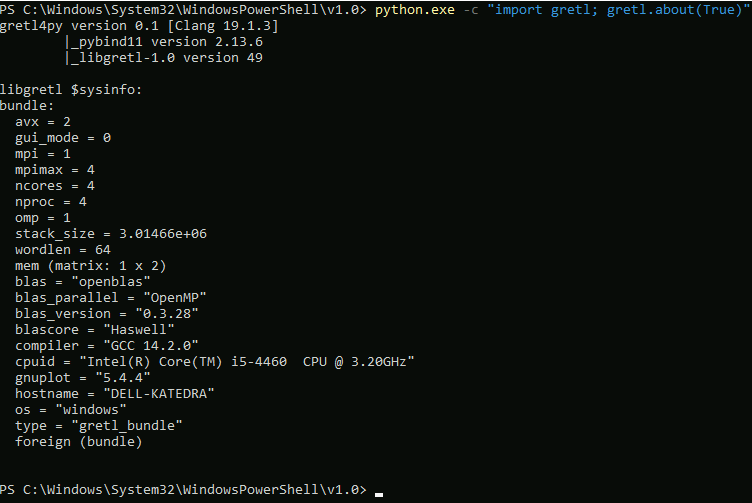
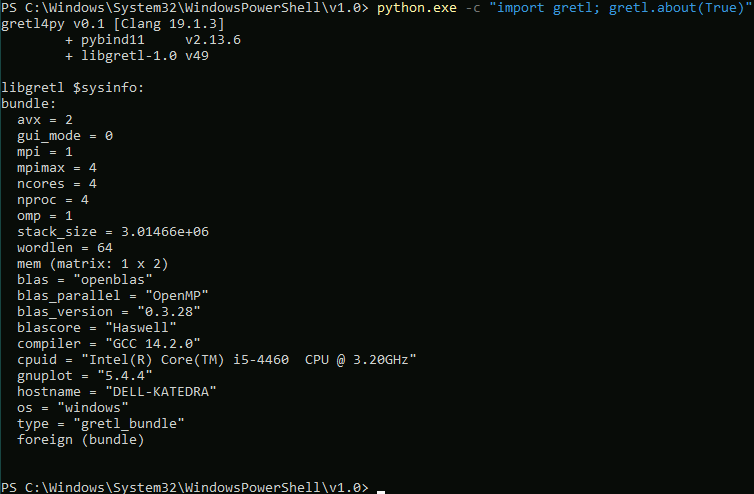
copyright statement added

Changed region(s): [[0.0, 0.0, 1.0, 0.9109], [0.0, 0.9413, 0.5199, 1.0]]

diff --git a/gretl/__init__.py b/gretl/__init__.py
@@ -1,4 +1,25 @@
-"""module import all necessary files"""
+"""
+ *
+ *  gretl -- Gnu Regression, Econometrics and Time-series Library
+ *  Copyright (C) 2001 Allin Cottrell and Riccardo "Jack" Lucchetti
+ *
+ *  This program is free software: you can redistribute it and/or modify
+ *  it under the terms of the GNU General Public License as published by
+ *  the Free Software Foundation, either version 3 of the License, or
+ *  (at your option) any later version.
+ *
+ *  This program is distributed in the hope that it will be useful,
+ *  but WITHOUT ANY WARRANTY; without even the implied warranty of
+ *  MERCHANTABILITY or FITNESS FOR A PARTICULAR PURPOSE.  See the
+ *  GNU General Public License for more details.
+ *
+ *  You should have received a copy of the GNU General Public License
+ *  along with this program.  If not, see <http://www.gnu.org/licenses/>.
+ *
+ """
+
+"""This module import all necessary files
+and sets some required environmental variables."""
 
 import sysconfig
 import site as _site

diff --git a/src/gretl_calls.cpp b/src/gretl_calls.cpp
@@ -1,3 +1,22 @@
+/*
+ *  gretl -- Gnu Regression, Econometrics and Time-series Library
+ *  Copyright (C) 2001 Allin Cottrell and Riccardo "Jack" Lucchetti
+ *
+ *  This program is free software: you can redistribute it and/or modify
+ *  it under the terms of the GNU General Public License as published by
+ *  the Free Software Foundation, either version 3 of the License, or
+ *  (at your option) any later version.
+ *
+ *  This program is distributed in the hope that it will be useful,
+ *  but WITHOUT ANY WARRANTY; without even the implied warranty of
+ *  MERCHANTABILITY or FITNESS FOR A PARTICULAR PURPOSE.  See the
+ *  GNU General Public License for more details.
+ *
+ *  You should have received a copy of the GNU General Public License
+ *  along with this program.  If not, see <http://www.gnu.org/licenses/>.
+ *
+ */
+
 #include "gretl4py.h" /* MUST be at the first position!!! */
 #include "gretl4py_data.h"
 #include <gretl/gretl_drivers.h>

diff --git a/src/gretl4py_data.cpp b/src/gretl4py_data.cpp
@@ -1,3 +1,22 @@
+/*
+ *  gretl -- Gnu Regression, Econometrics and Time-series Library
+ *  Copyright (C) 2001 Allin Cottrell and Riccardo "Jack" Lucchetti
+ *
+ *  This program is free software: you can redistribute it and/or modify
+ *  it under the terms of the GNU General Public License as published by
+ *  the Free Software Foundation, either version 3 of the License, or
+ *  (at your option) any later version.
+ *
+ *  This program is distributed in the hope that it will be useful,
+ *  but WITHOUT ANY WARRANTY; without even the implied warranty of
+ *  MERCHANTABILITY or FITNESS FOR A PARTICULAR PURPOSE.  See the
+ *  GNU General Public License for more details.
+ *
+ *  You should have received a copy of the GNU General Public License
+ *  along with this program.  If not, see <http://www.gnu.org/licenses/>.
+ *
+ */
+
 #include <pybind11/pybind11.h>
 #include <pybind11/numpy.h>
 #include "gretl4py_data.h"

diff --git a/src/gretl4py.h b/src/gretl4py.h
@@ -1,3 +1,22 @@
+/*
+ *  gretl -- Gnu Regression, Econometrics and Time-series Library
+ *  Copyright (C) 2001 Allin Cottrell and Riccardo "Jack" Lucchetti
+ *
+ *  This program is free software: you can redistribute it and/or modify
+ *  it under the terms of the GNU General Public License as published by
+ *  the Free Software Foundation, either version 3 of the License, or
+ *  (at your option) any later version.
+ *
+ *  This program is distributed in the hope that it will be useful,
+ *  but WITHOUT ANY WARRANTY; without even the implied warranty of
+ *  MERCHANTABILITY or FITNESS FOR A PARTICULAR PURPOSE.  See the
+ *  GNU General Public License for more details.
+ *
+ *  You should have received a copy of the GNU General Public License
+ *  along with this program.  If not, see <http://www.gnu.org/licenses/>.
+ *
+ */
+
 #include <pybind11/pybind11.h>
 #include <pybind11/numpy.h>
 #include <pybind11/stl.h>

diff --git a/src/gretl4py.cpp b/src/gretl4py.cpp
@@ -1,3 +1,22 @@
+/*
+ *  gretl -- Gnu Regression, Econometrics and Time-series Library
+ *  Copyright (C) 2001 Allin Cottrell and Riccardo "Jack" Lucchetti
+ *
+ *  This program is free software: you can redistribute it and/or modify
+ *  it under the terms of the GNU General Public License as published by
+ *  the Free Software Foundation, either version 3 of the License, or
+ *  (at your option) any later version.
+ *
+ *  This program is distributed in the hope that it will be useful,
+ *  but WITHOUT ANY WARRANTY; without even the implied warranty of
+ *  MERCHANTABILITY or FITNESS FOR A PARTICULAR PURPOSE.  See the
+ *  GNU General Public License for more details.
+ *
+ *  You should have received a copy of the GNU General Public License
+ *  along with this program.  If not, see <http://www.gnu.org/licenses/>.
+ *
+ */
+
 #include "gretl4py.h"
 #include <pybind11/numpy.h>
 #include <pybind11/stl.h>

diff --git a/src/gretl4py_data.h b/src/gretl4py_data.h
@@ -1,3 +1,22 @@
+/*
+ *  gretl -- Gnu Regression, Econometrics and Time-series Library
+ *  Copyright (C) 2001 Allin Cottrell and Riccardo "Jack" Lucchetti
+ *
+ *  This program is free software: you can redistribute it and/or modify
+ *  it under the terms of the GNU General Public License as published by
+ *  the Free Software Foundation, either version 3 of the License, or
+ *  (at your option) any later version.
+ *
+ *  This program is distributed in the hope that it will be useful,
+ *  but WITHOUT ANY WARRANTY; without even the implied warranty of
+ *  MERCHANTABILITY or FITNESS FOR A PARTICULAR PURPOSE.  See the
+ *  GNU General Public License for more details.
+ *
+ *  You should have received a copy of the GNU General Public License
+ *  along with this program.  If not, see <http://www.gnu.org/licenses/>.
+ *
+ */
+
 #include <pybind11/stl.h>
 #include <gretl/libgretl.h>
 #include <iostream>

diff --git a/gretl/gretl4py_addons.py b/gretl/gretl4py_addons.py
@@ -1,3 +1,23 @@
+"""
+ *
+ *  gretl -- Gnu Regression, Econometrics and Time-series Library
+ *  Copyright (C) 2001 Allin Cottrell and Riccardo "Jack" Lucchetti
+ *
+ *  This program is free software: you can redistribute it and/or modify
+ *  it under the terms of the GNU General Public License as published by
+ *  the Free Software Foundation, either version 3 of the License, or
+ *  (at your option) any later version.
+ *
+ *  This program is distributed in the hope that it will be useful,
+ *  but WITHOUT ANY WARRANTY; without even the implied warranty of
+ *  MERCHANTABILITY or FITNESS FOR A PARTICULAR PURPOSE.  See the
+ *  GNU General Public License for more details.
+ *
+ *  You should have received a copy of the GNU General Public License
+ *  along with this program.  If not, see <http://www.gnu.org/licenses/>.
+ *
+ """
+
 import os
 import sys
 import subprocess

diff --git a/gretl/gretl4py_classes.py b/gretl/gretl4py_classes.py
@@ -1,3 +1,23 @@
+"""
+ *
+ *  gretl -- Gnu Regression, Econometrics and Time-series Library
+ *  Copyright (C) 2001 Allin Cottrell and Riccardo "Jack" Lucchetti
+ *
+ *  This program is free software: you can redistribute it and/or modify
+ *  it under the terms of the GNU General Public License as published by
+ *  the Free Software Foundation, either version 3 of the License, or
+ *  (at your option) any later version.
+ *
+ *  This program is distributed in the hope that it will be useful,
+ *  but WITHOUT ANY WARRANTY; without even the implied warranty of
+ *  MERCHANTABILITY or FITNESS FOR A PARTICULAR PURPOSE.  See the
+ *  GNU General Public License for more details.
+ *
+ *  You should have received a copy of the GNU General Public License
+ *  along with this program.  If not, see <http://www.gnu.org/licenses/>.
+ *
+ """
+
 import json
 import _gretl
 import numpy
